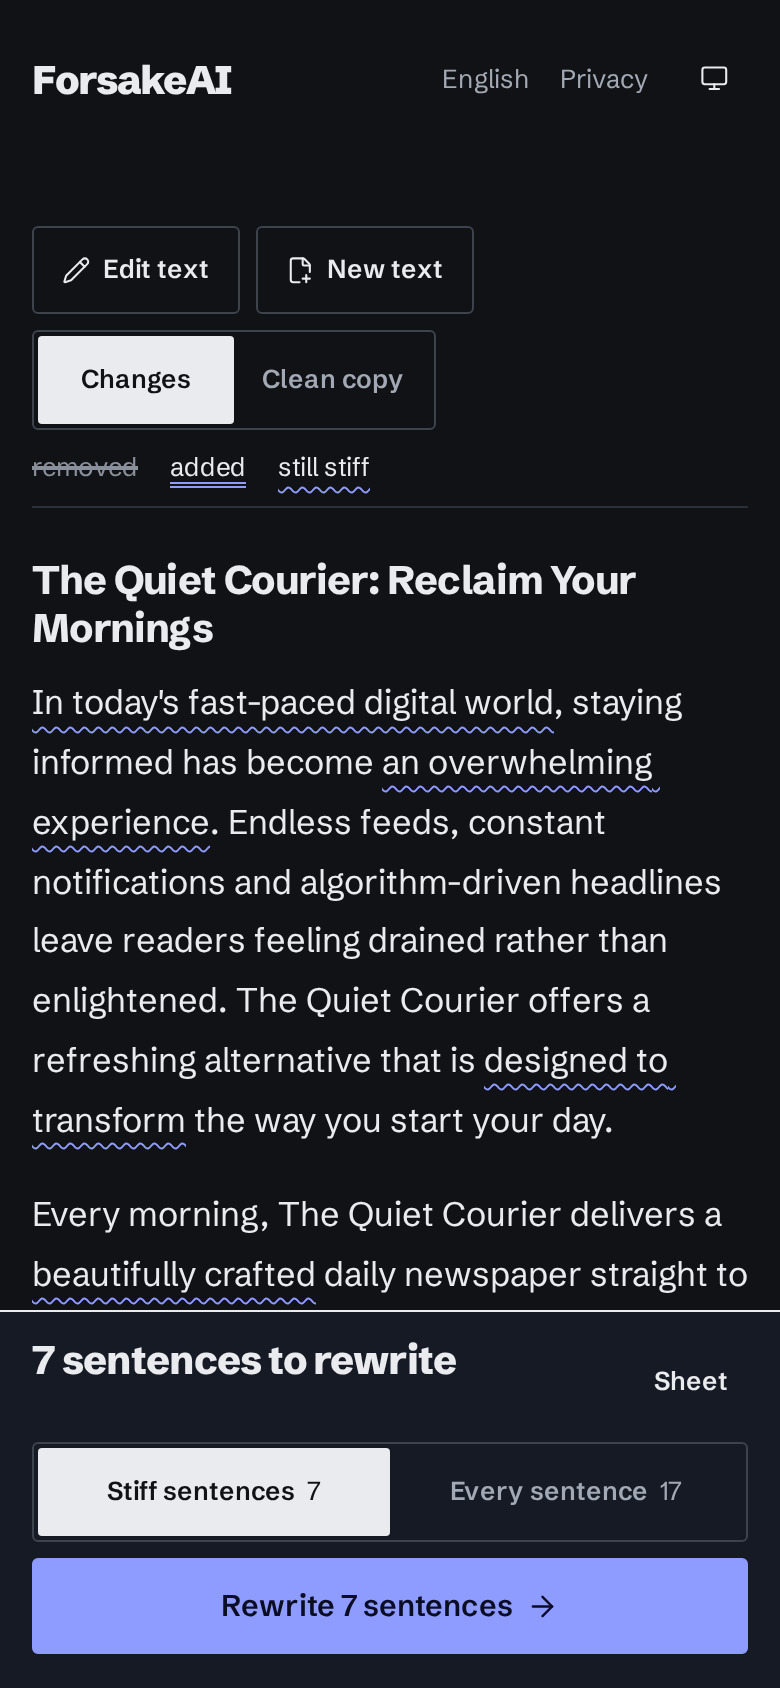
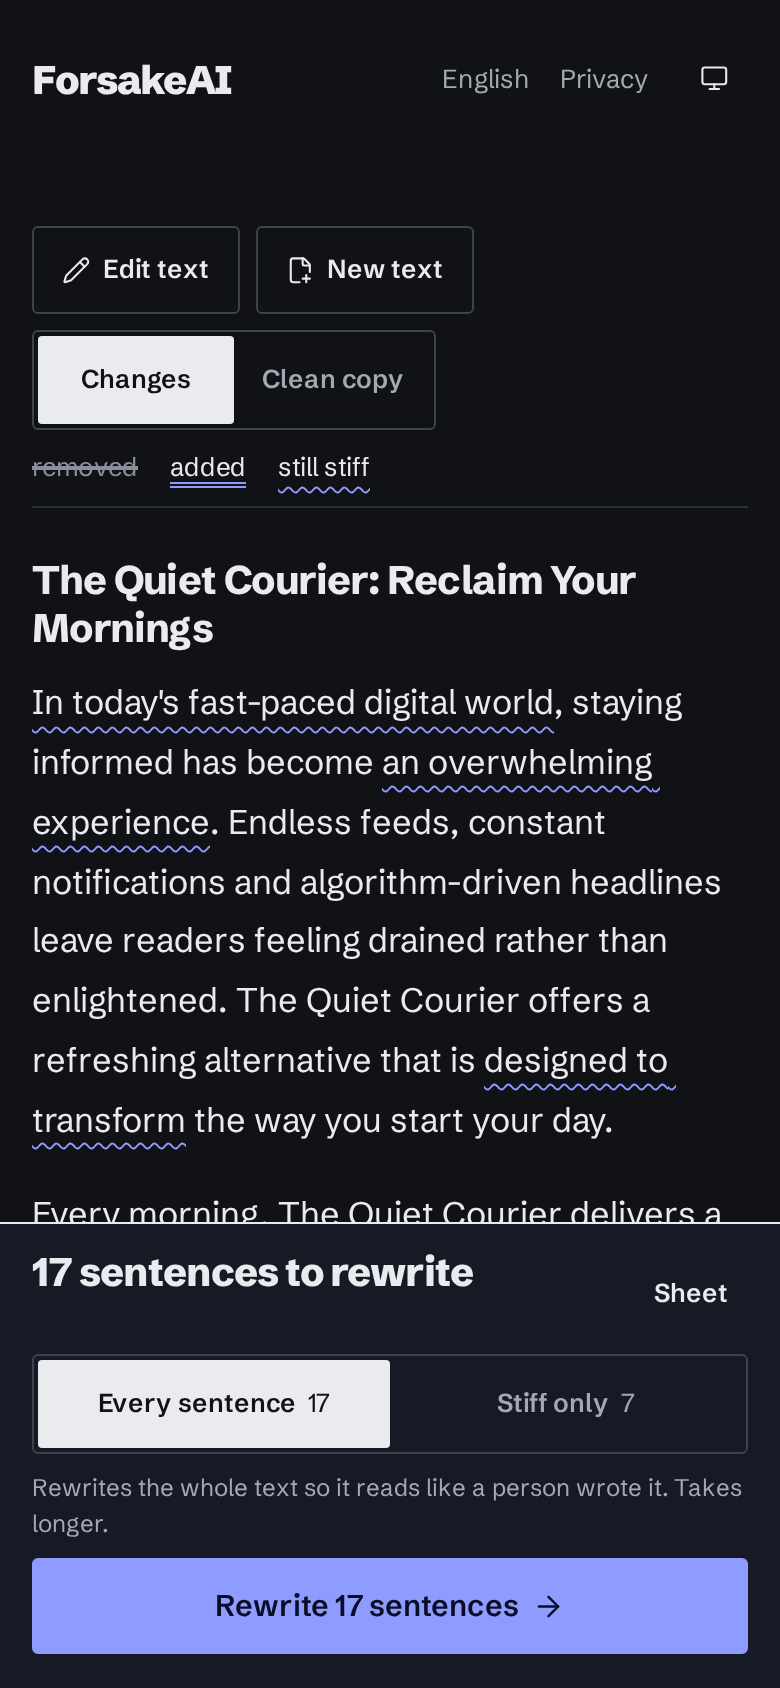
Rewrite every sentence by default; keep stiff-only as the lighter option
Rewriting everything is what moves AI detectors (90% to 8% on the sample
ad, against 68% for stiff sentences only). Progress saves are throttled so
long whole-text runs stay fast. README media re-recorded.

diff --git a/src/app/session.svelte.ts b/src/app/session.svelte.ts
@@ -59,6 +59,7 @@ function writeStored(key: string, value: string): void {
   }
 }
 // Whatever the page shipped with, so language pages keep their own titles.
+const SAVE_INTERVAL_MS = 1000;
 const APP_TITLE = typeof document === 'undefined' ? 'ForsakeAI' : document.title;
 
 export class Session {
@@ -67,7 +68,7 @@ export class Session {
   doc = $state<Doc | null>(null);
   summary = $state<RulePassSummary | null>(null);
   register = $state<Register>('keep');
-  scope = $state<RewriteScope>('stiff');
+  scope = $state<RewriteScope>('all');
   /** Target sentences in the current run, for the progress bar. */
   sentencesTotal = $state(0);
   sentencesDone = $state(0);
@@ -182,8 +183,8 @@ export class Session {
       chunksTotal: 0,
       chunksDone: 0,
     };
-    // Text with no stock phrases can still read as generated; offer the whole text then.
-    this.scope = this.waiting('stiff').length ? 'stiff' : 'all';
+    // Rewriting everything is what moves AI detectors; fixing only flagged phrases is the lighter option.
+    this.scope = 'all';
     this.phase = 'review';
     this.say('', null, 'quiet');
   }
@@ -359,7 +360,7 @@ export class Session {
             this.workingIds = this.workingIds.filter((w) => w !== id);
             this.sentencesDone++;
             render();
-            await this.persist();
+            await this.persistSoon();
           },
           onWait: (ms, err) => {
             waitingUntil = Date.now() + ms;
@@ -468,6 +469,20 @@ export class Session {
     this.release = null;
   }
 
+  private lastSaved = 0;
+
+  /**
+   * Saving copies the whole document, so per-sentence progress on a long text
+   * saves at most about once a second. Passages, pauses and the end of a run
+   * still save straight away.
+   */
+  private async persistSoon(): Promise<void> {
+    const now = performance.now();
+    if (now - this.lastSaved < SAVE_INTERVAL_MS) return;
+    this.lastSaved = now;
+    await this.persist();
+  }
+
   private async persist(): Promise<void> {
     if (!this.job || !this.doc) return;
     this.job.doc = $state.snapshot(this.doc) as Doc;
@@ -481,7 +496,7 @@ export class Session {
     this.doc = job.doc;
     this.input = job.input;
     this.register = job.register;
-    this.scope = job.scope ?? 'stiff';
+    this.scope = job.scope ?? 'all';
     this.lastEngine = job.engine ?? null;
     this.chunksTotal = job.chunksTotal;
     this.chunksDone = job.chunksDone;

diff --git a/src/app/StyleSheet.svelte b/src/app/StyleSheet.svelte
@@ -111,16 +111,18 @@
 
         {#if phase === 'review' && session.allLeft > 0}
           <div class="scope" role="radiogroup" aria-label="What to rewrite">
-            <button role="radio" aria-checked={session.scope === 'stiff'} disabled={!session.stiffLeft} onclick={() => (session.scope = 'stiff')}>
-              Stiff sentences <span>{session.stiffLeft}</span>
-            </button>
             <button role="radio" aria-checked={session.scope === 'all'} onclick={() => (session.scope = 'all')}>
               Every sentence <span>{session.allLeft}</span>
             </button>
+            <button role="radio" aria-checked={session.scope === 'stiff'} disabled={!session.stiffLeft} onclick={() => (session.scope = 'stiff')}>
+              Stiff only <span>{session.stiffLeft}</span>
+            </button>
           </div>
-          {#if session.scope === 'all'}
-            <p class="scope-note">Stock phrases are only part of what makes text read as generated. This changes more of your wording and takes longer.</p>
-          {/if}
+          <p class="scope-note">
+            {session.scope === 'all'
+              ? 'Rewrites the whole text so it reads like a person wrote it. Takes longer.'
+              : 'Lighter: fixes only the flagged phrases and keeps the rest of your wording. AI detectors usually still flag the rest.'}
+          </p>
           <button class="btn btn-primary wide" onclick={onRewrite}>Rewrite {plural(left, 'sentence', 'sentences')} <ArrowRight class="icon" aria-hidden="true" /></button>
           <p class="engine">
             {#if prefs.mode === 'device'}<Laptop class="icon" aria-hidden="true" />{:else}<KeyRound class="icon" aria-hidden="true" />{/if}

diff --git a/README.md b/README.md
@@ -9,11 +9,11 @@
 ## What it does
 
 - **Finds the tells.** Stock openers ("In today's fast-paced world"), filler ("It's important to note that"), hype words ("seamless", "transformative"), the "isn't just X, it's Y" construction, em dashes and chatbot sign-offs. Close to 80 English rules, with starter lists for German, Spanish, French and Portuguese.
-- **Fixes what it can on the spot**, then rewrites the rest with a language model: only the sentences that read stiff, or every sentence, paragraph by paragraph.
+- **Fixes what it can on the spot**, then rewrites the text with a language model, paragraph by paragraph. A lighter mode rewrites only the sentences that read stiff and keeps the rest of your wording.
 - **Shows every change.** Click any sentence to see why it changed, accept it, put your original back, or type your own version.
 - **Keeps your facts.** Numbers, names, links and quotes are locked before the model sees the text, and every rewrite is checked for meaning before it's used.
 
-![Pasting a draft, cleaning it up, checking a change, and rewriting the stiff sentences on the computer's own graphics card](.github/media/review.gif)
+![Trying the sample: clean-up, checking and restoring a change, then rewriting every sentence with Qwen3 4B on a laptop GPU](.github/media/review.gif)
 
 ## Where the rewrite runs
 
@@ -23,8 +23,6 @@
 | **Your own API key** | Straight from your browser to the provider | A key from Google Gemini (has a free tier), OpenAI, Anthropic, OpenRouter, Groq or Mistral, or a local Ollama / LM Studio server |
 
 There is no ForsakeAI server. Keys stay in your browser and can be encrypted with a passphrase.
-
-![Rewriting every sentence of an AI-written ad with Qwen3 4B running on a laptop GPU](.github/media/whole-text.gif)
 
 ## Does it work?
 
@@ -36,7 +34,12 @@ Tested with [desklib/ai-text-detector-v1.01](https://huggingface.co/desklib/ai-t
 | Rewritten on device, one sentence at a time | 7.5 |
 | Rewritten on device, whole paragraphs (what ships) | about 5.5 |
 
-On a 370-word AI-written text, a commercial detector went from 77.5% AI to 21% after rewriting the stiff sentences on device, and to 5.1% after rewriting every sentence.
+Measured with a commercial detector, rewriting on device:
+
+| Text | Before | Stiff only | Every sentence |
+| --- | --- | --- | --- |
+| 370-word article written by Gemini | 77.5% AI | 21% | 5.1% |
+| The sample ad in the app | 90% AI | 68% | 8% |
 
 What it doesn't do: a 4B model still drops a detail now and then, so read the result before you use it. Generic five-paragraph essays stay detectable even after a careful rewrite, because the structure gives them away. No tool can promise how a detector will score your text. Method and every run are in [docs/local-rewrite-eval.md](docs/local-rewrite-eval.md).
 
